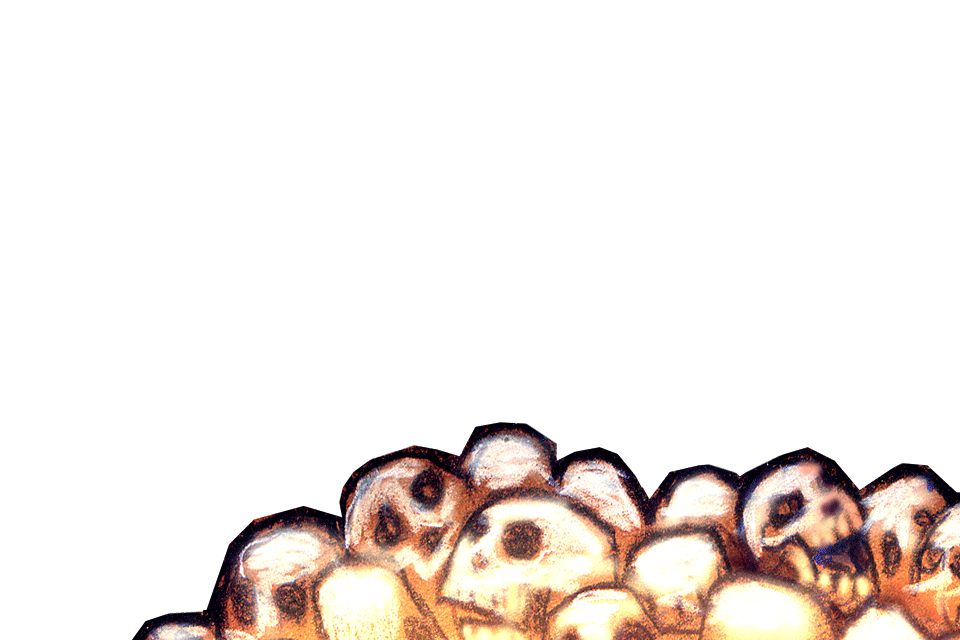
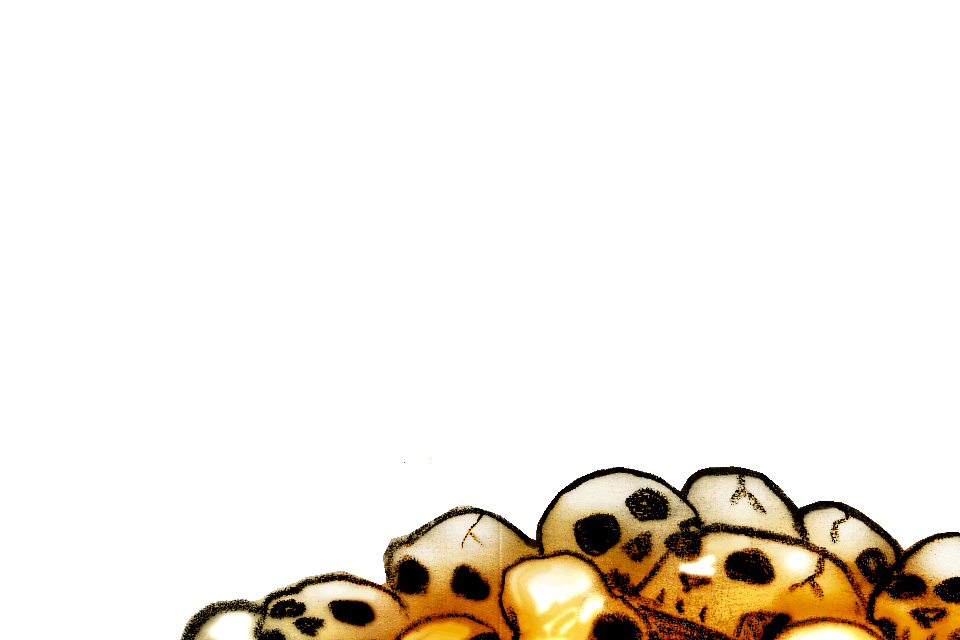
changed songs per level, and put new art on front page

Changed region(s): [[0.125, 0.6562, 1.0, 1.0]]

diff --git a/trunk/main.html b/trunk/main.html
@@ -4,16 +4,16 @@
 <script type="text/javascript" src="processing/processing-0.9.1.js"></script>
 <script type="text/javascript" src="js/jquery-1.4.3.min.js"></script>
 <script type="text/javascript" src="processing/init.js"></script>
-<audio src="music/track2_1.mp3" preload="true" id="track1"></audio>
-<audio src="music/track2_2.mp3" preload="true" id="track2"></audio>
-<audio src="music/track2_3.mp3" preload="true" id="track3"></audio>
-<audio src="music/track2_4.mp3" preload="true" id="track4"></audio>
-<audio src="music/track2_5.mp3" preload="true" id="track5"></audio>
-<audio src="music/track2_1.ogg" preload="true" id="track11"></audio>
-<audio src="music/track2_2.ogg" preload="true" id="track12"></audio>
-<audio src="music/track2_3.ogg" preload="true" id="track13"></audio>
-<audio src="music/track2_4.ogg" preload="true" id="track14"></audio>
-<audio src="music/track2_5.ogg" preload="true" id="track15"></audio>
+<audio id="track1"></audio>
+<audio id="track2"></audio>
+<audio id="track3"></audio>
+<audio id="track4"></audio>
+<audio id="track5"></audio>
+<audio id="track11"></audio>
+<audio id="track12"></audio>
+<audio id="track13"></audio>
+<audio id="track14"></audio>
+<audio id="track15"></audio>
 <style type="text/css">
 body {background: #000 url("art_assets/bg.png") no-repeat;}
 form {display: none;}
@@ -36,6 +36,43 @@ function urlquery( name )
 		var thisLevel = urlquery('level');
 		if (thisLevel == "") {
 			thisLevel = 1;
+		}
+		
+		if (thisLevel == 1 || thisLevel == 4 || thisLevel == 7 || thisLevel == 10 || thisLevel == 13) {
+			$('#track1').attr('src', 'music/track1_1.mp3');
+			$('#track2').attr('src', 'music/track1_2.mp3');
+			$('#track3').attr('src', 'music/track1_3.mp3');
+			$('#track4').attr('src', 'music/track1_4.mp3');
+			$('#track5').attr('src', 'music/track1_5.mp3');
+			$('#track11').attr('src', 'music/track1_1.ogg');
+			$('#track12').attr('src', 'music/track1_2.ogg');
+			$('#track13').attr('src', 'music/track1_3.ogg');
+			$('#track14').attr('src', 'music/track1_4.ogg');
+			$('#track15').attr('src', 'music/track1_5.ogg');
+		}
+		if (thisLevel == 2 || thisLevel == 5 || thisLevel == 8 || thisLevel == 11 || thisLevel == 14) {
+			$('#track1').attr('src', 'music/track2_1.mp3');
+			$('#track2').attr('src', 'music/track2_2.mp3');
+			$('#track3').attr('src', 'music/track2_3.mp3');
+			$('#track4').attr('src', 'music/track2_4.mp3');
+			$('#track5').attr('src', 'music/track2_5.mp3');
+			$('#track11').attr('src', 'music/track2_1.ogg');
+			$('#track12').attr('src', 'music/track2_2.ogg');
+			$('#track13').attr('src', 'music/track2_3.ogg');
+			$('#track14').attr('src', 'music/track2_4.ogg');
+			$('#track15').attr('src', 'music/track2_5.ogg');
+		}
+		if (thisLevel == 3 || thisLevel == 6 || thisLevel == 9 || thisLevel == 12 || thisLevel == 15) {
+			$('#track1').attr('src', 'music/track3_1.mp3');
+			$('#track2').attr('src', 'music/track3_2.mp3');
+			$('#track3').attr('src', 'music/track3_3.mp3');
+			$('#track4').attr('src', 'music/track3_4.mp3');
+			$('#track5').attr('src', 'music/track3_5.mp3');
+			$('#track11').attr('src', 'music/track3_1.ogg');
+			$('#track12').attr('src', 'music/track3_2.ogg');
+			$('#track13').attr('src', 'music/track3_3.ogg');
+			$('#track14').attr('src', 'music/track3_4.ogg');
+			$('#track15').attr('src', 'music/track3_5.ogg');
 		}
 		$('#level-select').val(thisLevel);
 	});
@@ -1079,7 +1116,8 @@ class Cannon {
 
 }
 
-currLevel = 1;
+//currLevel = 1;
+currLevel = $('#level-select').val();
 
 void setup() {
 	cannons = new ArrayList();
@@ -1440,7 +1478,7 @@ void getTrack(int index) {
   else {
 	return document.getElementById("track1" + str(index));
   }
-}  
+}
 
 void addBullet() {
 	if (bullets.size() >= 3)

diff --git a/trunk/js/knife.js b/trunk/js/knife.js
@@ -110,8 +110,60 @@ knife.page.player.init = function() {
 			
 	})
 
+	$('#controls .play').click(function(e) {
+		
+		e.preventDefault();
+		
+		$.timer(1000, function(t) {
+			t.stop();
+			document.location = 'main.html';
+		})
+	})
+
+
+	$('body').click(function() {
+		
+		var slash = document.getElementById('slash');
+		var canPlayWav1 = ("no" != slash.canPlayType("audio/wav")) && ("" != slash.canPlayType("audio/wav"));
+		
+		if (canPlayWav1) {
+			slash.play();
+		}
+		
+		knife.page.player.KNIFE_ANIM = new SpriteAnim({
+			elementId: 'tank',
+			frames: 3,
+			height: 470,
+			delay: 200,
+			numberOfLoops: 1 
+		});
+		
+		$.timer(800, function(t) {
+			t.stop();
+			knife.page.player.KNIFE_ANIM.stopAnimation();
+			$('#tank').css({backgroundPosition: '0 0'});
+
+		})
+		
+	})
 	
+	var track1 = document.getElementById('track1');
 	
+	var canPlayOgg = ("no" != track1.canPlayType("audio/ogg")) && ("" != track1.canPlayType("audio/ogg"));
+	var canPlayMp3 = ("no" != track1.canPlayType("audio/mpeg")) && ("" != track1.canPlayType("audio/mpeg"));
+	var canPlayWav = ("no" != track1.canPlayType("audio/wav")) && ("" != track1.canPlayType("audio/wav"));
+
+	//trace(canPlayOgg+' '+canPlayMp3+' '+canPlayWav);
+	
+	if (canPlayMp3) {
+		$('#track1').attr('src', 'music/opening.mp3');
+	} else if (canPlayOgg) {
+		$('#track1').attr('src', 'music/opening.ogg');
+	} else if (canPlayWav) {
+		$('#track1').attr('src', 'music/opening.wav');
+	}
+	
+	track1.play();
 }
 
 

diff --git a/trunk/index.html b/trunk/index.html
@@ -10,7 +10,9 @@
 	<meta http-equiv="Content-Style-Type" content="text/css" />
 	<link rel="stylesheet" type="text/css" media="screen, print, projection" href="css/screen.css" />
 	<!--<link rel="stylesheet" type="text/css" media="screen, print, projection" href="css/farbtastic.css" />-->
-	<audio src="music/opening.mp3" autoplay="true" preload="true" id="track1" loop></audio>
+	<audio preload="true" id="track1" loop></audio>
+	<audio preload="true" id="slash" src="music/sfx/hit_papertank_slash.wav"></audio>
+
 <!-- stuff -->
 </head>
 <body>
@@ -34,7 +36,7 @@
 					<div id="skull1"></div>
 					
 					<ul id="controls">
-						<li><a class="play" href="main.html">START!</a></li>
+						<li><a class="play">START!</a></li>
 						<li><a class="tanks" href="#">MORE</a></li>
 					</ul>					
 					

diff --git a/trunk/css/screen.css b/trunk/css/screen.css
@@ -109,8 +109,8 @@ h1 {
 	width: 552px;
 	position: absolute;
 	/* top: -5px; left: 250px; */
-	top: 329px;
-	left: -530px;
+	top: 339px;
+	left: -540px;
 }
 #skull2 {
 	background: transparent url('../img/kt_skullmound03.png') no-repeat 0 0;
